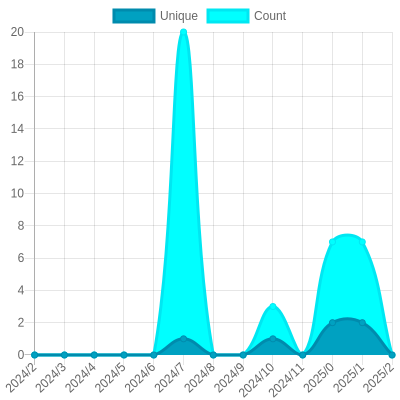
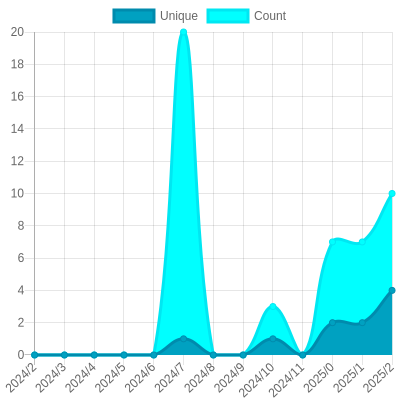
Update views

Changed region(s): [[0.84, 0.48, 0.99, 0.9]]

diff --git a/README.md b/README.md
@@ -26,7 +26,7 @@ The project created and maintained by [gayanvoice](https://github.com/gayanvoice
 			</a>
 		</td>
 		<td>
-			2024/3/18 1:03 AM UTC
+			2024/3/19 1:02 AM UTC
 		</td>
 		<td>
 			31
@@ -42,7 +42,7 @@ The project created and maintained by [gayanvoice](https://github.com/gayanvoice
 			</a>
 		</td>
 		<td>
-			2024/3/18 1:03 AM UTC
+			2024/3/19 1:02 AM UTC
 		</td>
 		<td>
 			8
@@ -53,7 +53,7 @@ The project created and maintained by [gayanvoice](https://github.com/gayanvoice
 	</tr>
 </table>
 
-<small><i>Last updated on 2024/3/20 6:17 PM UTC</i></small>
+<small><i>Last updated on 2024/3/21 1:04 AM UTC</i></small>
 
 ## ✂Copy and 📋 Paste
 ### Total Views Badge

diff --git a/readme/509677702/year.md b/readme/509677702/year.md
@@ -23,10 +23,10 @@
 			<code>2024/3/1</code>
 		</td>
 		<td>
-			<code>0</code>
+			<code>4</code>
 		</td>
 		<td>
-			<code>0</code>
+			<code>10</code>
 		</td>
 	</tr>
 	<tr>
@@ -164,7 +164,7 @@
 </table>
 
 </details>
-<small><i>Last updated on 2024/3/20 6:17 PM UTC</i></small>
+<small><i>Last updated on 2024/3/21 1:03 AM UTC</i></small>
 
 ## ✂Copy and 📋 Paste
 ### SVG Badge

diff --git a/readme/509726908/year.md b/readme/509726908/year.md
@@ -164,7 +164,7 @@
 </table>
 
 </details>
-<small><i>Last updated on 2024/3/20 6:17 PM UTC</i></small>
+<small><i>Last updated on 2024/3/21 1:03 AM UTC</i></small>
 
 ## ✂Copy and 📋 Paste
 ### SVG Badge
